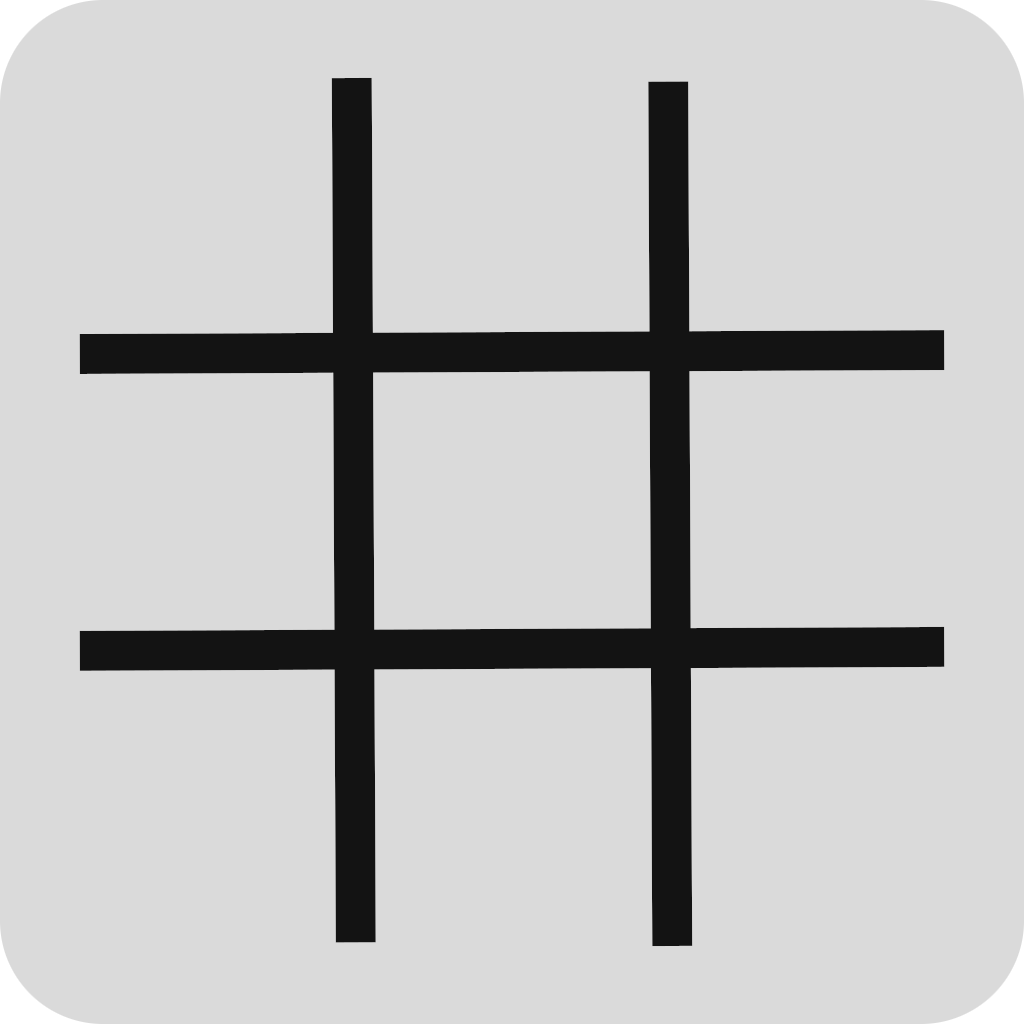
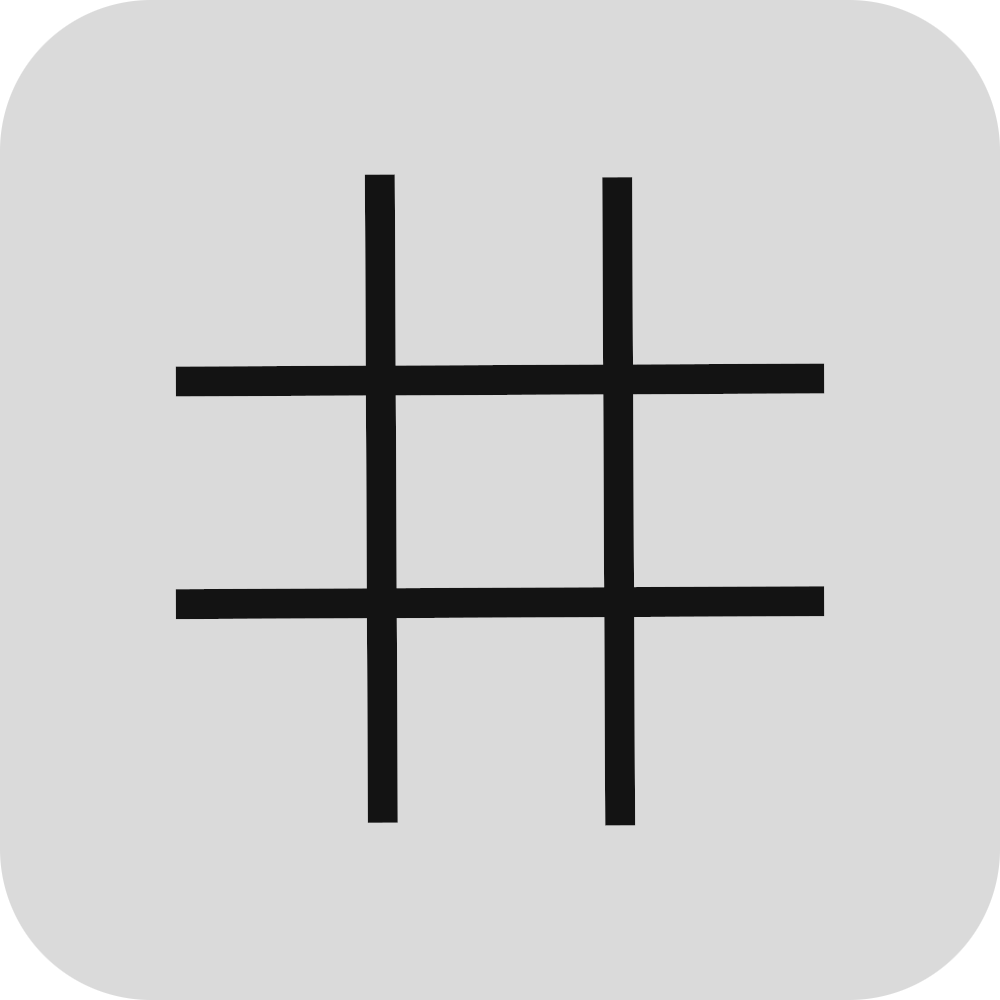
I have no idea

diff --git a/src/App.tsx b/src/App.tsx
@@ -28,8 +28,10 @@ function App() {
 
   useEffect(() => {
     if (loaded || error) {
-      Uniwind.setTheme(Uniwind.currentTheme);
       SplashScreen.hideAsync();
+    }
+    if (error) {
+      console.error(error);
     }
   }, [loaded, error]);
 
@@ -38,13 +40,13 @@ function App() {
       <ImageBackground
         source={bgSource}
         className="web:h-full!"
-        imageClassName="web:h-full! web:w-full! native:transform-scale-250"
-        imageStyle={{ resizeMode: 'repeat' }}
+        imageClassName="web:h-full! w-full!"
+        resizeMode="stretch"
       >
         <StatusBar style="auto" />
 
         <ScrollView
-          className="h-full p-safe"
+          className="p-safe h-full"
           contentContainerClassName="flex-1 justify-evenly min-h-full items-center gap-4 p-4"
         >
           <View className="gap-4">

diff --git a/src/components/ui/Button.tsx b/src/components/ui/Button.tsx
@@ -8,10 +8,10 @@ type StyledButtonProps = PressableProps & {
 };
 
 const StyledButton = ({ title, className, textClassName, ...props }: StyledButtonProps) => (
-  <Pressable {...props} className={cn('w-fit', className)}>
+  <Pressable {...props} className={cn('px-2 py-2', className)}>
     <Text
       className={cn(
-        'text-content font-comicRelif w-full text-center text-lg uppercase select-none',
+        'text-content font-comicRelif px-2 text-center text-lg uppercase select-none',
         textClassName
       )}
     >
